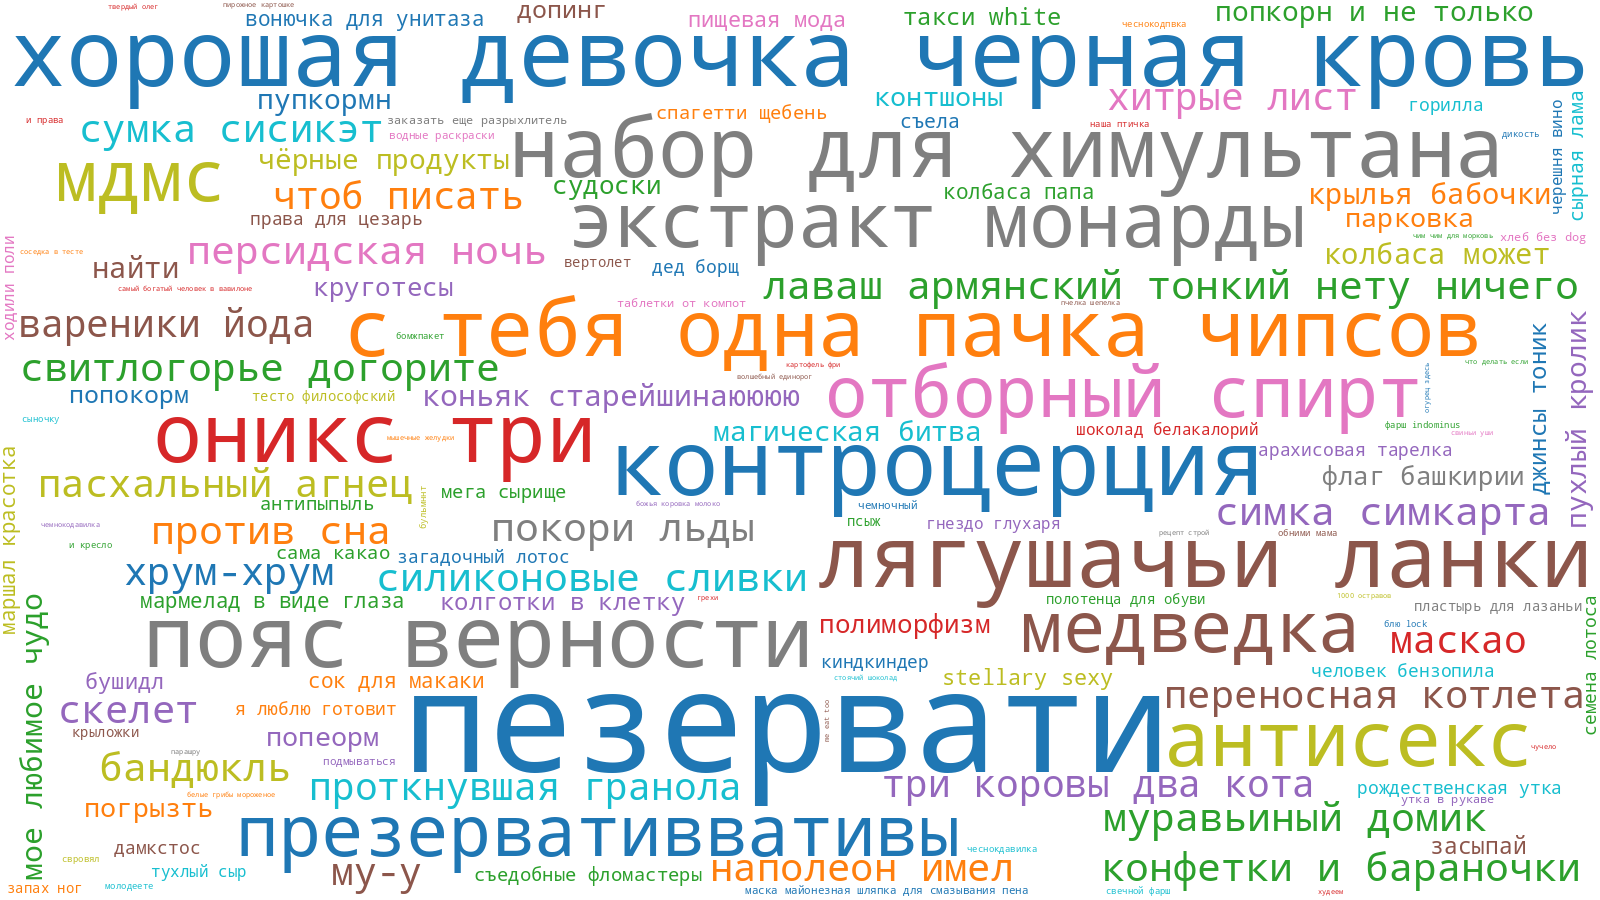
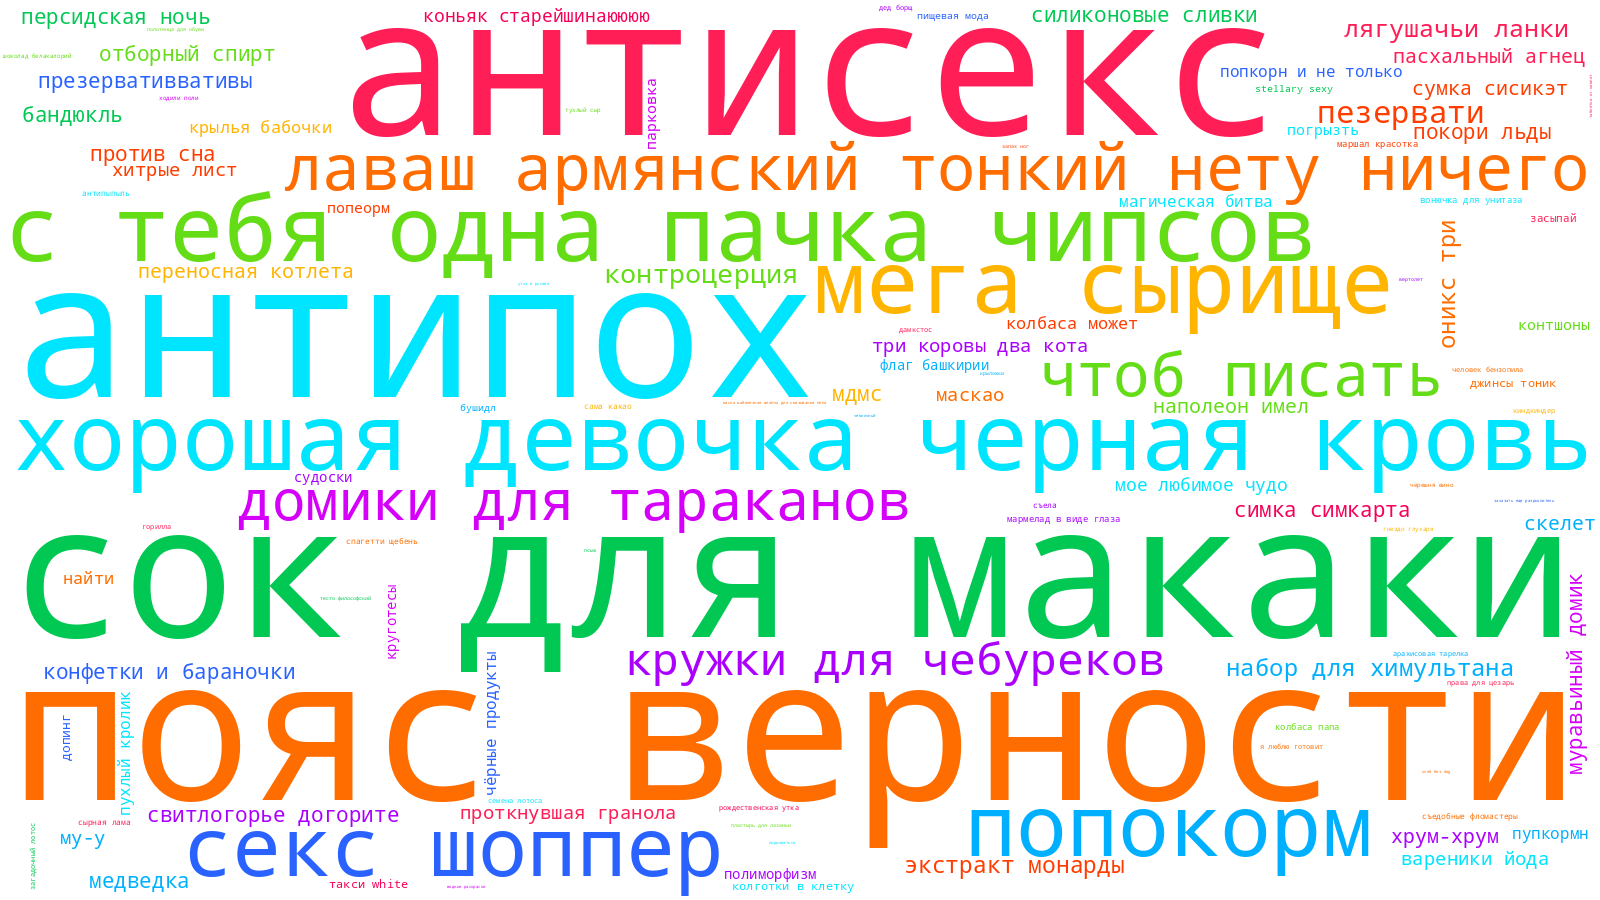
commit

diff --git a/presentation/presentation.md b/presentation/presentation.md
@@ -61,6 +61,45 @@ TODO Саша напиши
 
 - 4 уровня: cat1 ⊃ cat2 ⊃ cat3 ⊃ cat4
 
+---
+
+### Аналитика: дерево категорий из 4 уровней
+- Каталог — строгая иерархия **cat1 ⊃ cat2 ⊃ cat3 ⊃ cat4**, от общего к детальному
+- Крупнейшие cat1: **уход (5 271), безалкогольные напитки (4 745), молочка (4 565), парфюмерия/косметика (4 056), бакалея (3 938)**
+- Дерево глубокое: до 4 уровней вложенности внутри одной cat1
+- Собрано через `anytree`: рёбра parent → child, вес = частота товаров в ветке
+
+![[Pasted image 20260715110703.png]]
+---
+
+### Дерево: структура и «обрубки»
+- Пример ветки — видно всю глубину cat1 → cat4:
+
+![[cat_tree_branch.png]]
+
+- Пропуски (cat1 — 720, cat2 — 580, cat3 — 47) — **не шум:** короткий путь заполняется снизу, от cat4
+- За «обрубками» прячется служебка, а не товары: услуги, комплектующие для продажи, собственные отходы, «! на удаление !», упаковка
+
+---
+
+### Классификатор: категория по одному запросу
+- Задача: по **тексту запроса** (без товара) определить его полку в каталоге
+- Запрос → эмбеддинг **e5-small-en-ru** (та же модель, что у Самоката), префикс «query: »
+- **Ступень 1:** kNN (k=3, по расстоянию) → верхняя категория **cat1** (58 классов)
+- **Ступень 2:** для найденной cat1 — свой под-классификатор → подкатегория **cat2** (51 модель + 7 cat1 с единственным вариантом)
+- Зачем каскад: cat1 всего 58, а cat2 внутри каждой свои — грубо угадываем, потом уточняем
+- 39 172 примера, train/test 85/15, стратификация по cat1
+
+---
+
+### Каскад работает: 86% верных путей
+- **cat1: 90,4%** accuracy (f1_macro 0,846)
+- **cat2 при верной cat1: 95,2%** — угадали верхний уровень → нижний почти всегда тоже
+- **Весь путь целиком (оба уровня): 86,1%**
+- Почти вся ошибка — на верхнем уровне; развилка cat1 → cat2 внутри категории решается легко
+- Простой kNN по эмбеддингам уже даёт сильную базу: семантика запроса хорошо ложится на дерево категорий
+
+---
 
 ### Запросы
 
@@ -176,6 +215,55 @@ TODO перечислить реально смешные запросы
 - Даже «сломанные» запросы группируются осмысленно (творожный/сырок, курица, шоколад/молоко)
 
 ![[t_cluster3d_bad_e5.png]]
+
+### Связность товаров: графы из меток S и C
+
+- Метки **S** и **C** — это готовые связи между товарами, строим из них графы
+- Узлы — товары, ребро — общий запрос; вес ребра — число запросов, подтверждающих связь
+- **Граф замены (S):** если под запрос есть точный E и заменители S — связываем S с E; нет E — связываем S между собой
+- **Граф дополнений (C):** аналогично, C↔E того же запроса (соус к пасте)
+
+---
+
+### Граф заменителей (S)
+
+- **1 269 товаров, 5 433 связи** (вес ребра ≥ 2)
+- Распадается на десятки плотных кластеров — и каждый совпадает с товарной категорией (цвет)
+- Крупнейший хаб по весу — **хлеб** (ржано-пшеничный, дарницкий, бородинский…) и **минералка**: всё взаимозаменяемо
+
+![[graph_subst_all.png]]
+
+---
+
+### Замена = плотная «клика»
+
+- Топ-компонента: **63 товара, 555 связей** — почти все безалкогольные напитки
+- Структура — плотный клубок: каждый заменитель связан с каждым
+- Логично: если 10 газировок закрывают одну потребность, они взаимозаменяемы попарно
+
+![[graph_subst_top1.png]]
+
+---
+
+### Граф дополнений (C)
+
+- **864 товара, 1 513 связей** — реже и разреженнее, чем замены
+- Топ-компонента — **звезда, а не клика: 41 товар, 68 связей**
+- В центре — базовый товар (хот-дог / курица), вокруг «лучи»: птица, мясная гастрономия, кулинария, бакалея
+- Это связи вокруг **одного приёма пищи**, а не взаимозамены
+
+![[graph_compl_top1.png]]
+
+---
+
+### Замена и дополнение — разная геометрия
+
+- **S — клики:** товары одной полки, любой заменит любой → плотный клубок
+- **C — звёзды:** один товар в центре, вокруг сопутствующие из разных категорий
+- Графы дают Самокату готовые рекомендации: «вместо» (S) и «вместе» (C)
+- Это же объясняет, почему классификатор не ловит **C**: по тексту дополнение похоже на точное совпадение, а его природа — в структуре связей, а не в словах
+
+---
 
 ### Классификация релевантности — задача
 
@@ -311,4 +399,25 @@ TODO перечислить реально смешные запросы
 ## Заключение
 
 Короткое замыкание на введение: что забрали из проекта, ограничения и куда развивать дальше.
+
+## Чего не хватает в слайдах (по плану)
+
+Крупные пропуски — целых блоков нет:
+
+1. **Настин блок** (план 1.2) — «в каких категориях что встречается» из её ноутбука. В слайдах отсутствует полностью.
+2. **Визуализация «категории без E-товаров»** (план 1.1.5) — есть визуал, где видно категории, в которых нет ни одного exact. Не вставлен.
+3. **Извлечение брендов** (план 5.3) — «вытащили бренды» из названий товаров. Ни слайда.
+4. **ESCI до/после исправления опечаток** (план 4.3.1, «плюс опечатки — улучшилось») — точка соединения двух частей проекта. В ESCI-блоке нет сравнения до/после.
+
+Частичные — тема есть, куска не хватает:
+
+5. **Статистика ESCI отдельным слайдом** (план 4.1) — распределение классов (E 36 474 / I 29 160 / S 9 307 / C 4 833) + граф. Числа есть только в определениях во введении.
+6. **«60 слов-примеров» опечаток** (план 2.1.1) — сейчас 1–2 примера на тип, обещанного большого списка нет.
+7. **Примеры «простых» запросов** (план 1.1.4.1) — есть облака и биграммы, а списка типичных запросов-примеров нет.
+8. **Динамика классификатора категорий 0.6 → 0.8** (план 5.2) — в слайде только финальные 86%, истории «было/стало» нет.
+
+Мелочь:
+
+9. **Пример «картошка» в графе дополнений** (план 3.1.2) — в слайде топ-компонента хот-дог/курица, картошки нет.
+10. **«хлеб продвигает Самокат»** (план 3.1.1.1, помечено «мб») — гипотеза про СТМ/продвижение не раскрыта.
 